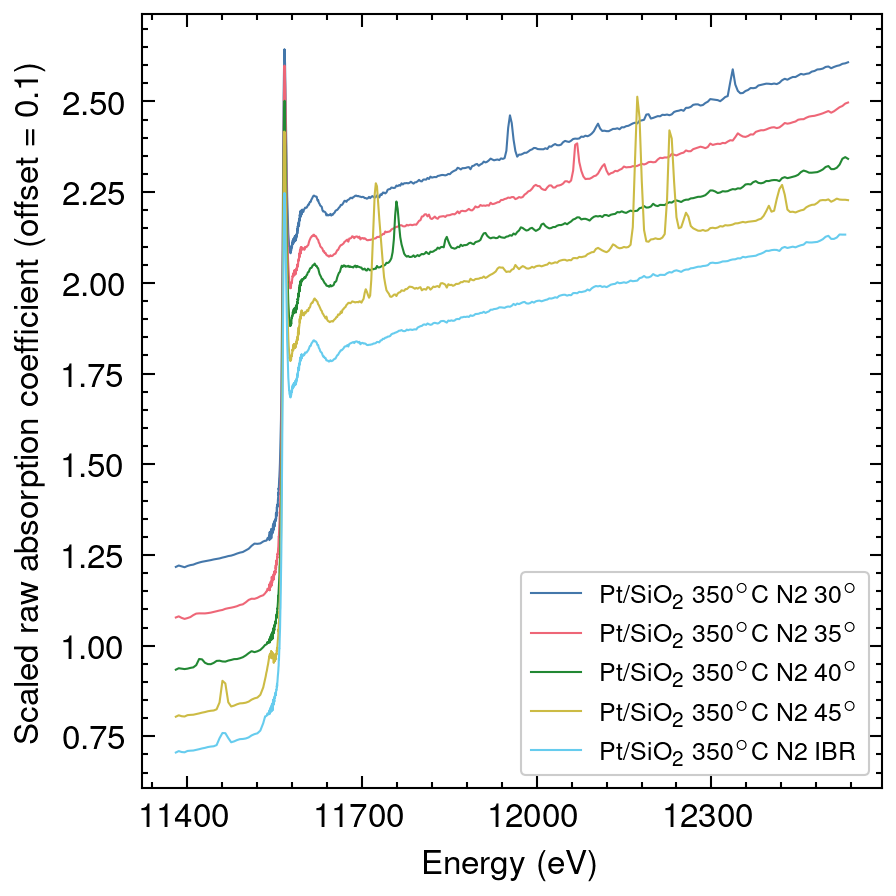
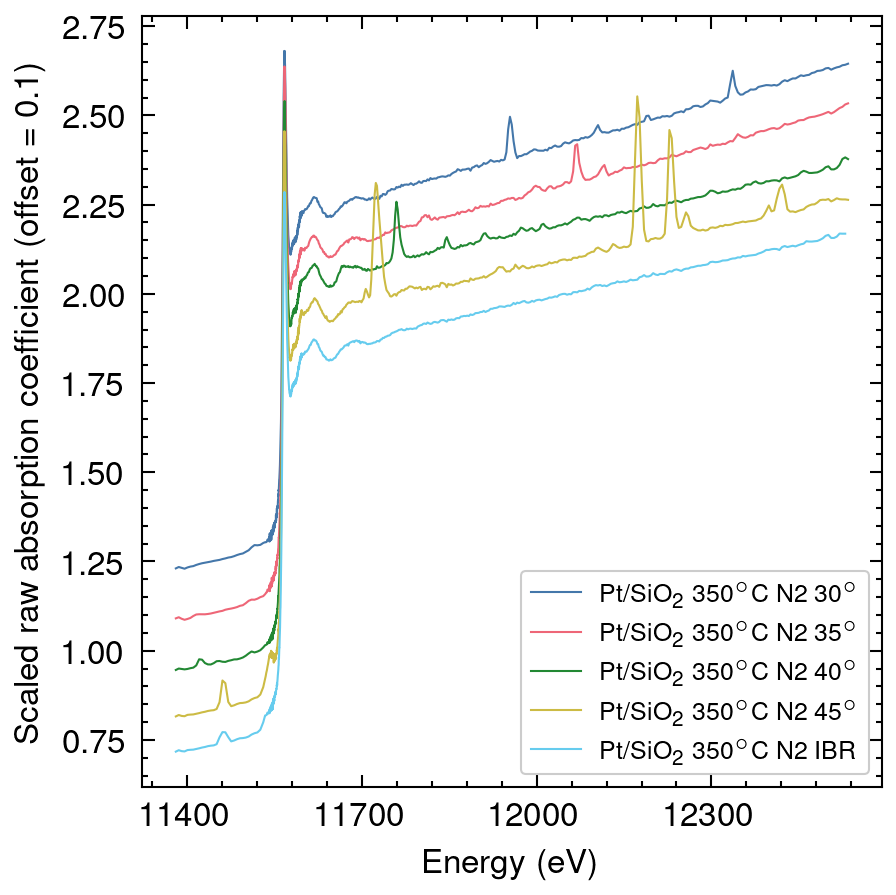
update examples

diff --git a/examples/PtSiO2.py b/examples/PtSiO2.py
@@ -144,6 +144,27 @@ def plot_group_list_comparison(
     fig.tight_layout(pad=0.5)
     fig.savefig(save_path, dpi=300)
 
+    fig, ax = plt.subplots(1, 1, figsize=(3, 3))
+
+    for i, group, label in zip(range(len(group_list)), group_list, label_list):
+        ax.plot(group.r, group.chir_mag, label=label, color=f"C{i}")
+
+    ax.xaxis.set_major_locator(ticker.MaxNLocator(5))
+    ax.xaxis.set_minor_locator(ticker.MaxNLocator(25))
+    ax.legend()
+
+    # set labels
+    ax.set_xlabel("R ($Å$)")
+    # tobe fixed
+    ax.set_ylabel("$|R|\chi(\mathrm{R})$ (Å$^{-3}$)")
+
+    ax.set_xlim(0, 6)
+    save_path = os.path.join(save_dir, f"{save_prefix}chir_mag.png")
+    os.makedirs(os.path.dirname(save_path), exist_ok=True)
+
+    fig.tight_layout(pad=0.5)
+    fig.savefig(save_path, dpi=300)
+
 
 def read_and_merge_spectra(
     file_paths: list[str], fluorescence: bool = True
@@ -169,7 +190,7 @@ def read_and_merge_spectra(
             if fluorescence:
                 mu = iff / i0
             else:
-                mu = -np.log(i0 / it)
+                mu = np.log(i0 / it)
 
             if energy_grid is None:
                 energy_grid = energy
@@ -251,9 +272,15 @@ def main():
 
         scale = ix_scale.loss_spectrum(ix_scale.mu_list, ix_scale.mu_list[-1], -1)
 
-        pre_edge_kws: dict = {}
+        e0 = 11564
 
-        autobk_kws: dict = {}
+        pre_edge_kws: dict = {
+            "nnorm": 3,
+            "pre1": -180,
+            "pre2": -50,
+            "norm1": 150,
+            "norm2": 970,
+        }
 
         pre_edge(merged_bragg_peak_removed_spectrum, **pre_edge_kws)
 
@@ -262,9 +289,21 @@ def main():
         for i, merged_spectrum in enumerate(merged_spectra):
             merged_spectrum.mu = merged_spectrum.mu * scale[i] / edge_step
 
+        autobk_kws: dict = {"rbkg": 1.6, "kmin": 0, "kmax": None}
+
+        xftf_kws: dict = {
+            "kmin": 2,
+            "kmax": 8,
+            "dk": 2,
+            "kweight": 2,
+            "window": "Hanning",
+        }
+
         for group in merged_spectra:
+            group.e0 = e0
             pre_edge(group, **pre_edge_kws)
             autobk(group, **autobk_kws)
+            xftf(group, **xftf_kws)
 
         plot_group_list(merged_spectra, labels, save_prefix=f"PtSiO2_{temp}_{gas}")
 
@@ -272,7 +311,9 @@ def main():
 
         ref_file_paths: list[str] = [f"./data/PtSiO2_pellet/PtSiO2_{temp}_{gas}*.dat"]
 
-        ref_group: list[Group] = read_and_merge_spectra(ref_file_paths)
+        ref_group: list[Group] = read_and_merge_spectra(
+            ref_file_paths, fluorescence=False
+        )
         comparison_group_list: list[Group] = [
             merged_bragg_peak_removed_spectrum
         ] + ref_group
@@ -283,8 +324,10 @@ def main():
         ]
 
         for group in comparison_group_list:
+            group.e0 = 0
             pre_edge(group, **pre_edge_kws)
             autobk(group, **autobk_kws)
+            xftf(group, **xftf_kws)
 
         plot_group_list_comparison(
             comparison_group_list,

diff --git a/examples/AlYN.py b/examples/AlYN.py
@@ -76,6 +76,28 @@ def plot_group_list(
     fig.tight_layout(pad=0.5)
     fig.savefig(save_path, dpi=300)
 
+    fig, ax = plt.subplots(1, 1, figsize=(3, 3))
+
+    group = group_list[-1]
+    label = label_list[-1]
+    ax.plot(group.r, group.chir_mag, label=label, color="C0")
+
+    ax.xaxis.set_major_locator(ticker.MaxNLocator(5))
+    ax.xaxis.set_minor_locator(ticker.MaxNLocator(25))
+    ax.legend()
+
+    # set labels
+    ax.set_xlabel("R ($Å$)")
+    # tobe fixed
+    ax.set_ylabel("$|R|\chi(\mathrm{R})$ (Å$^{-3}$)")
+
+    ax.set_xlim(0, 6)
+    save_path = os.path.join(save_dir, f"chir_mag.png")
+    os.makedirs(os.path.dirname(save_path), exist_ok=True)
+
+    fig.tight_layout(pad=0.5)
+    fig.savefig(save_path, dpi=300)
+
 
 def read_and_merge_spectra(
     file_paths: list[str], fluorescence: bool = True
@@ -101,7 +123,7 @@ def read_and_merge_spectra(
             if fluorescence:
                 mu = iff / i0
             else:
-                mu = -np.log(i0 / it)
+                mu = np.log(i0 / it)
 
             if energy_grid is None:
                 energy_grid = energy
@@ -137,7 +159,7 @@ def generate_larch_group_list(ix: IbrXas) -> list[Group]:
 
 def main():
     angles = [25, 30, 35, 40, 45, 50]
-
+    # angles = [40, 45, 50]
     file_paths = [f"./data/AlYN/AlYN-R{angle}*.dat" for angle in angles]
 
     file_list = [f"AlYN {angle}deg.dat" for angle in angles]
@@ -161,9 +183,25 @@ def main():
 
     scale = ix_scale.loss_spectrum(ix_scale.mu_list, ix_scale.mu_list[-1], -1)
 
-    pre_edge_kws: dict = {}
+    e0 = 17050
 
-    autobk_kws: dict = {}
+    pre_edge_kws: dict = {
+        "nnorm": 3,
+        "pre1": -200,
+        "pre2": -100,
+        "norm1": 100,
+        "norm2": 1500,
+    }
+
+    autobk_kws: dict = {"rbkg": 1.3}
+
+    xftf_kws: dict = {
+        "kmin": 2,
+        "kmax": 12,
+        "dk": 2,
+        "kweight": 2,
+        "window": "Hanning",
+    }
 
     pre_edge(merged_bragg_peak_removed_spectrum, **pre_edge_kws)
 
@@ -173,8 +211,10 @@ def main():
         merged_spectrum.mu = merged_spectrum.mu * scale[i] / edge_step
 
     for group in merged_spectra:
+        group.e0 = e0
         pre_edge(group, **pre_edge_kws)
         autobk(group, **autobk_kws)
+        xftf(group, **xftf_kws)
 
     plot_group_list(merged_spectra, labels)
 
